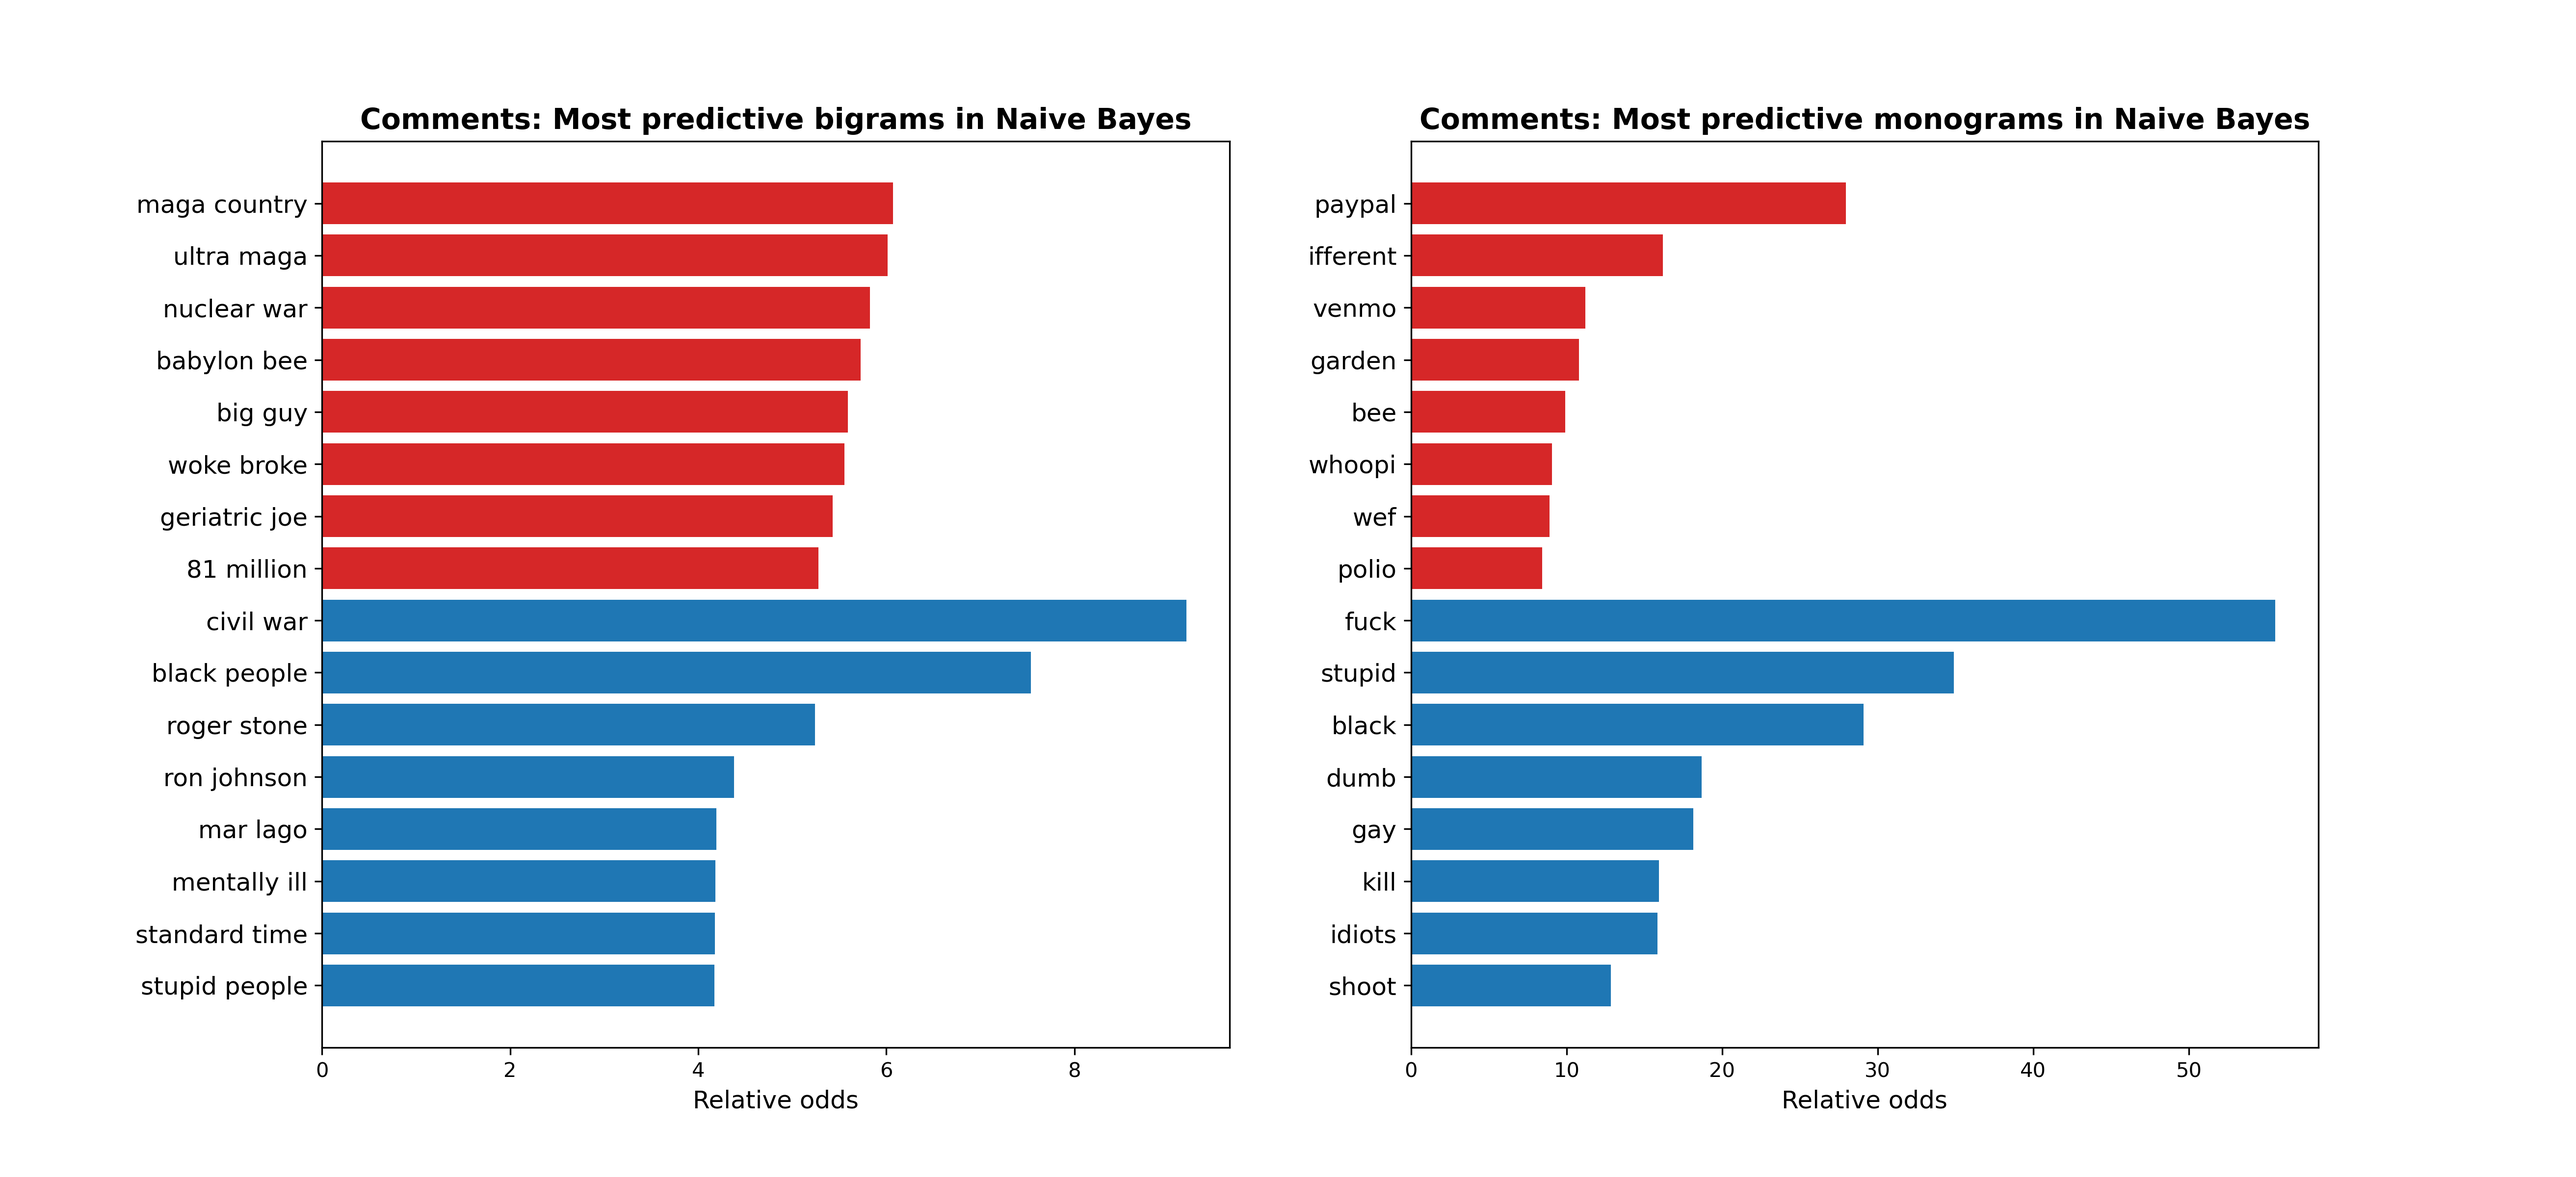
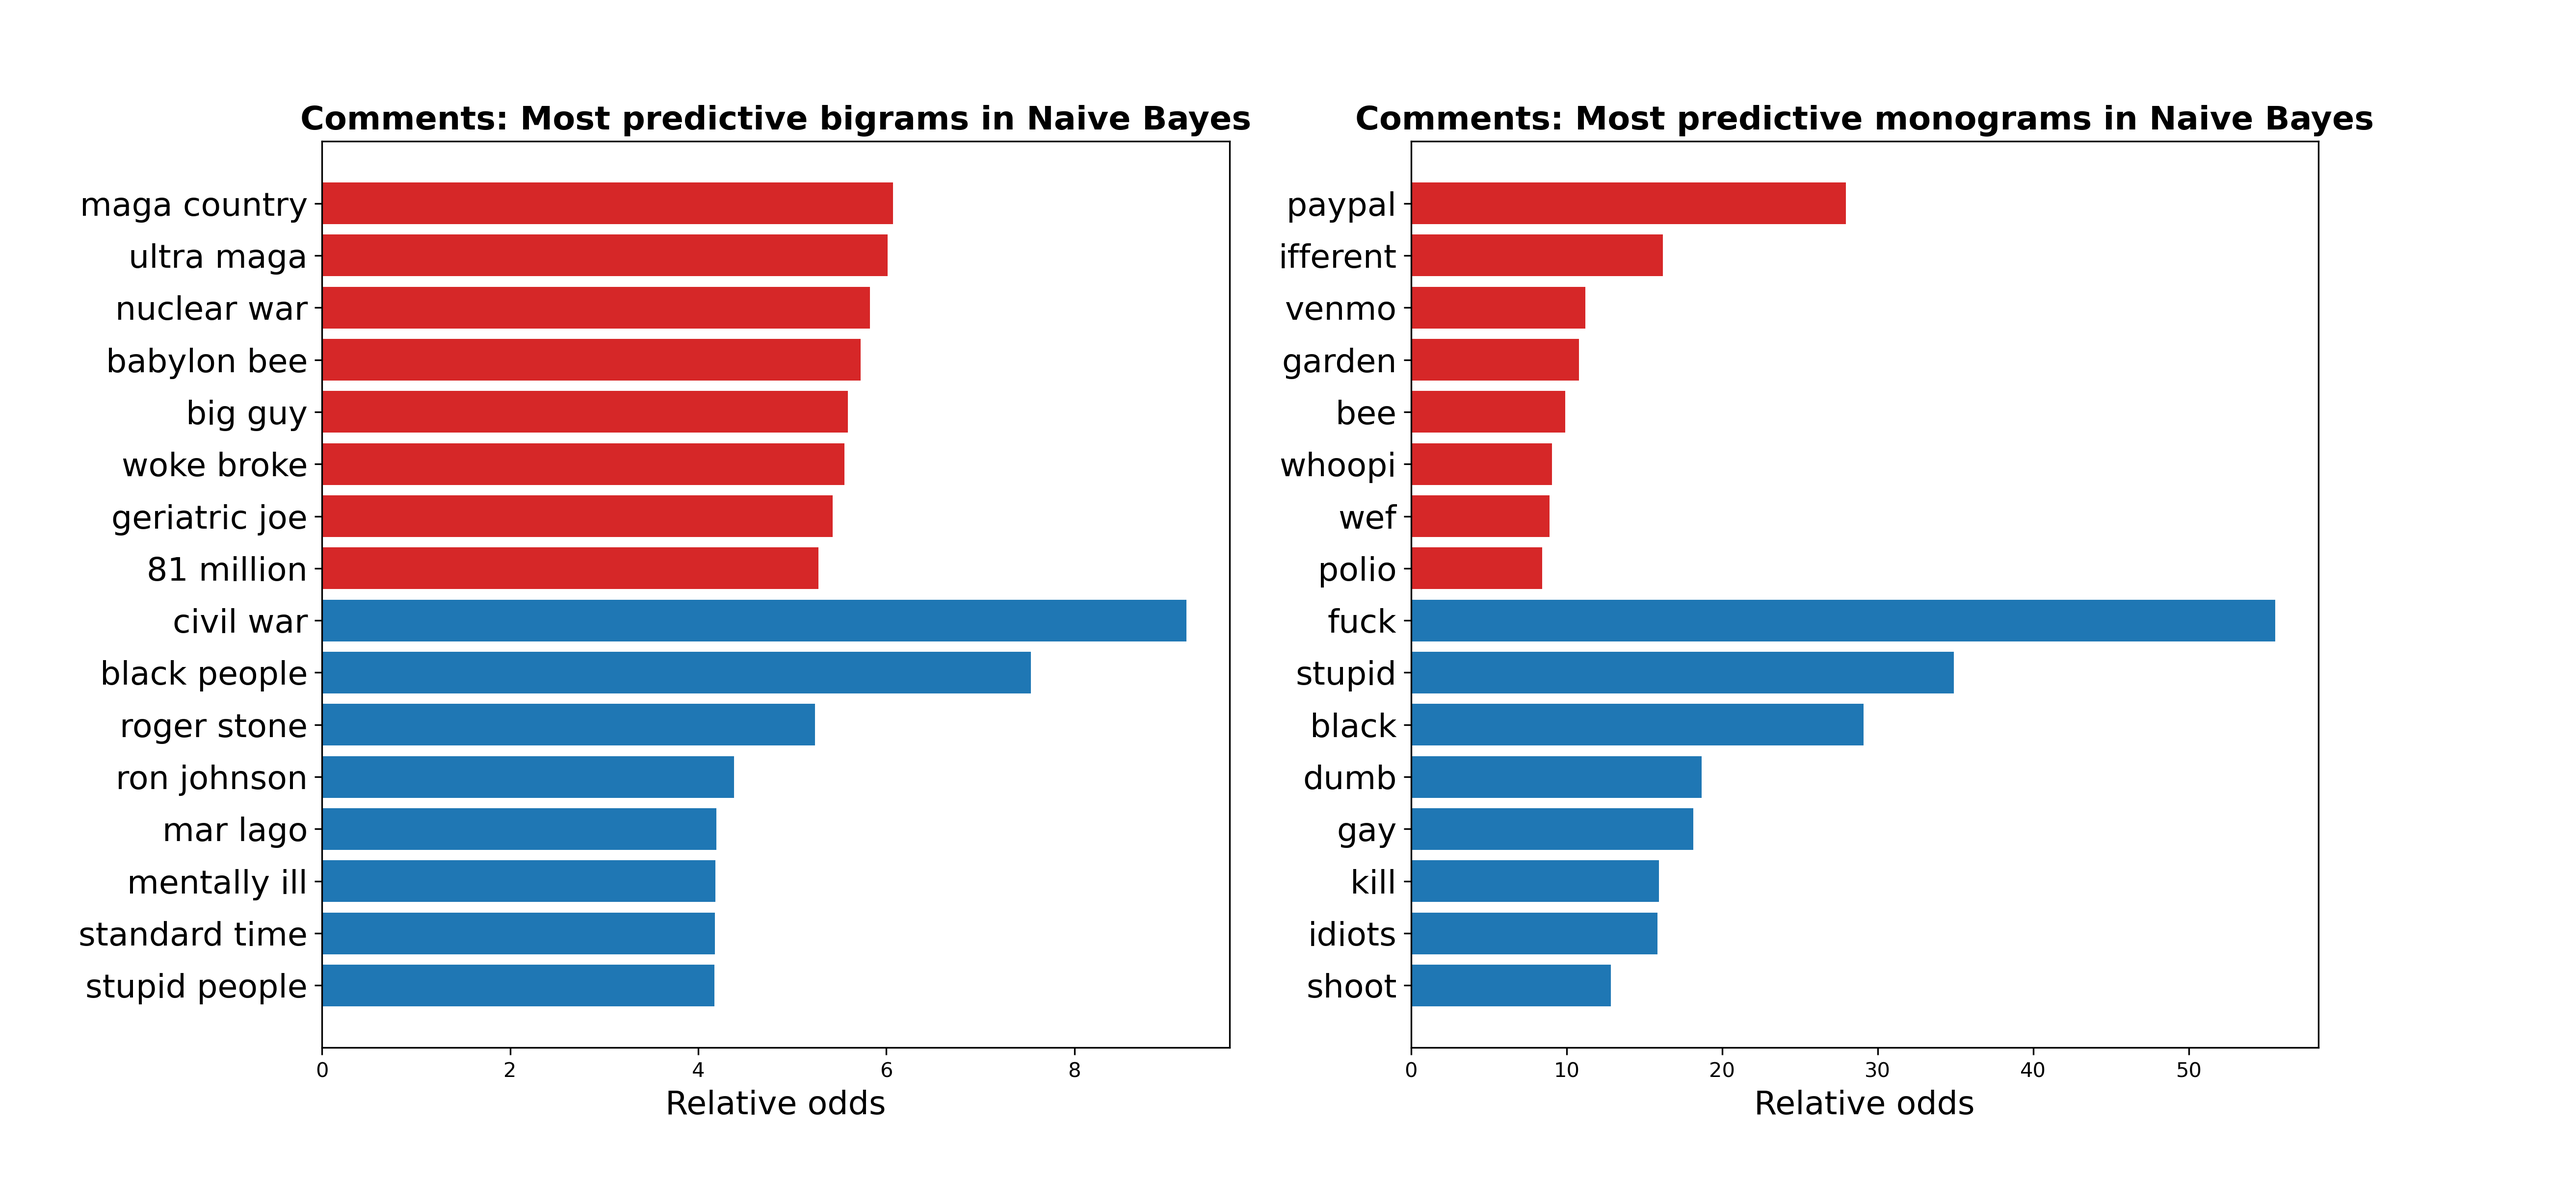
Sizing imgs3

diff --git a/README.md b/README.md
@@ -108,7 +108,7 @@ The base estimators within the stacking classifier all have some degree of inter
 
 We also looked at which monograms and bigrams are the most predictive in convincing the classifier that the post/comment comes from one or the other subreddit. An example for the Naive Bayes classifier from the comments model is shown below:
 
- <img src="./figures/com_nb_features.png" width="1200px"/>
+ <img src="./figures/com_nb_features.png" width="900px"/>
 
 
 
